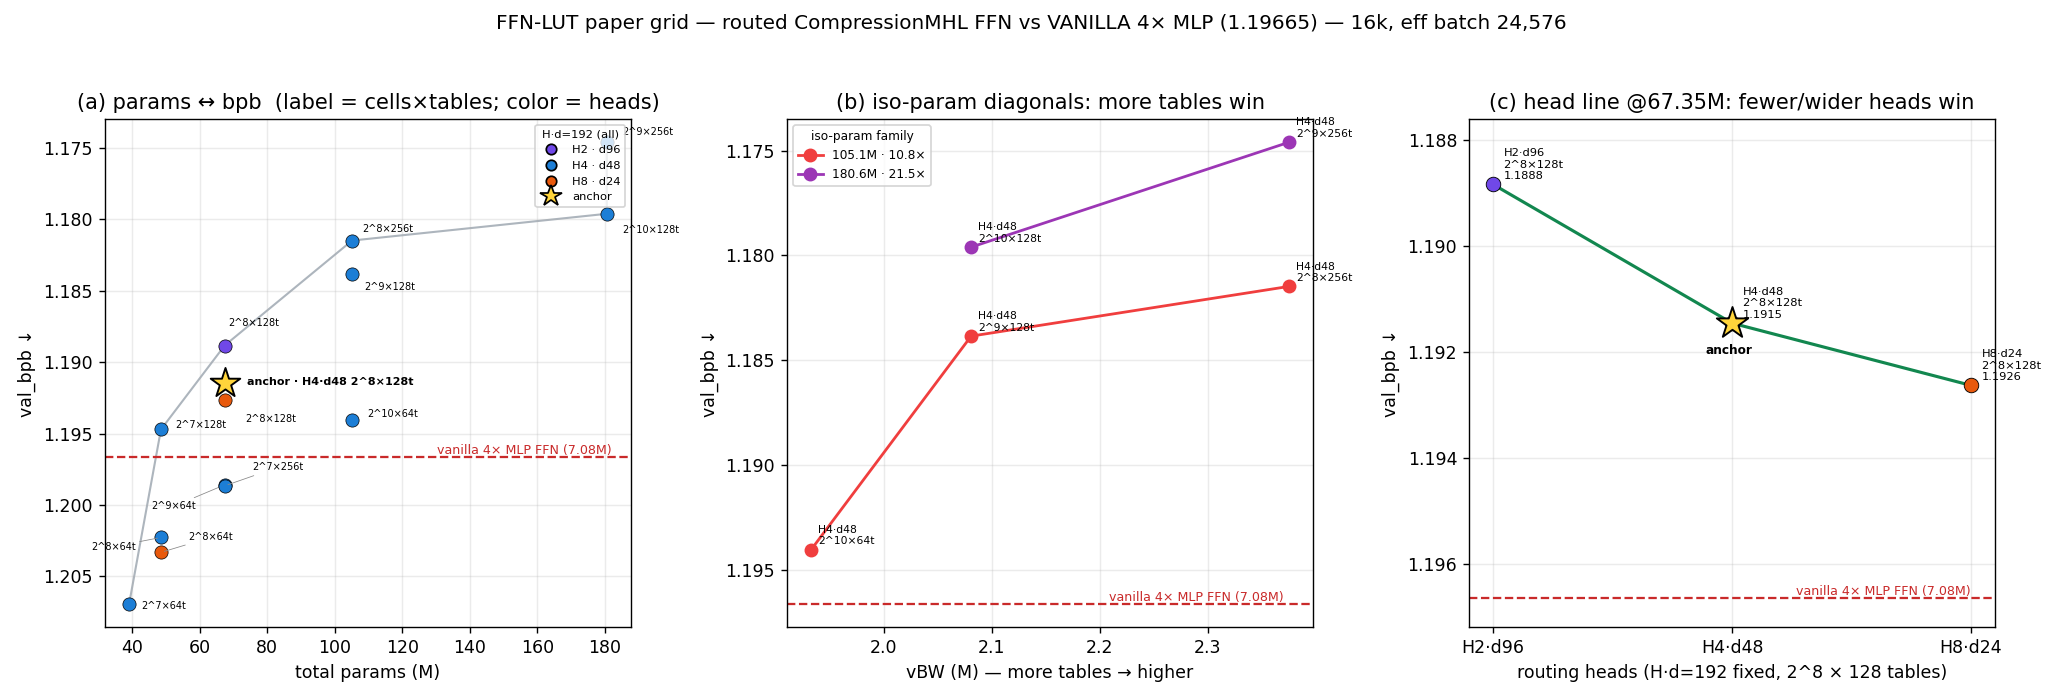
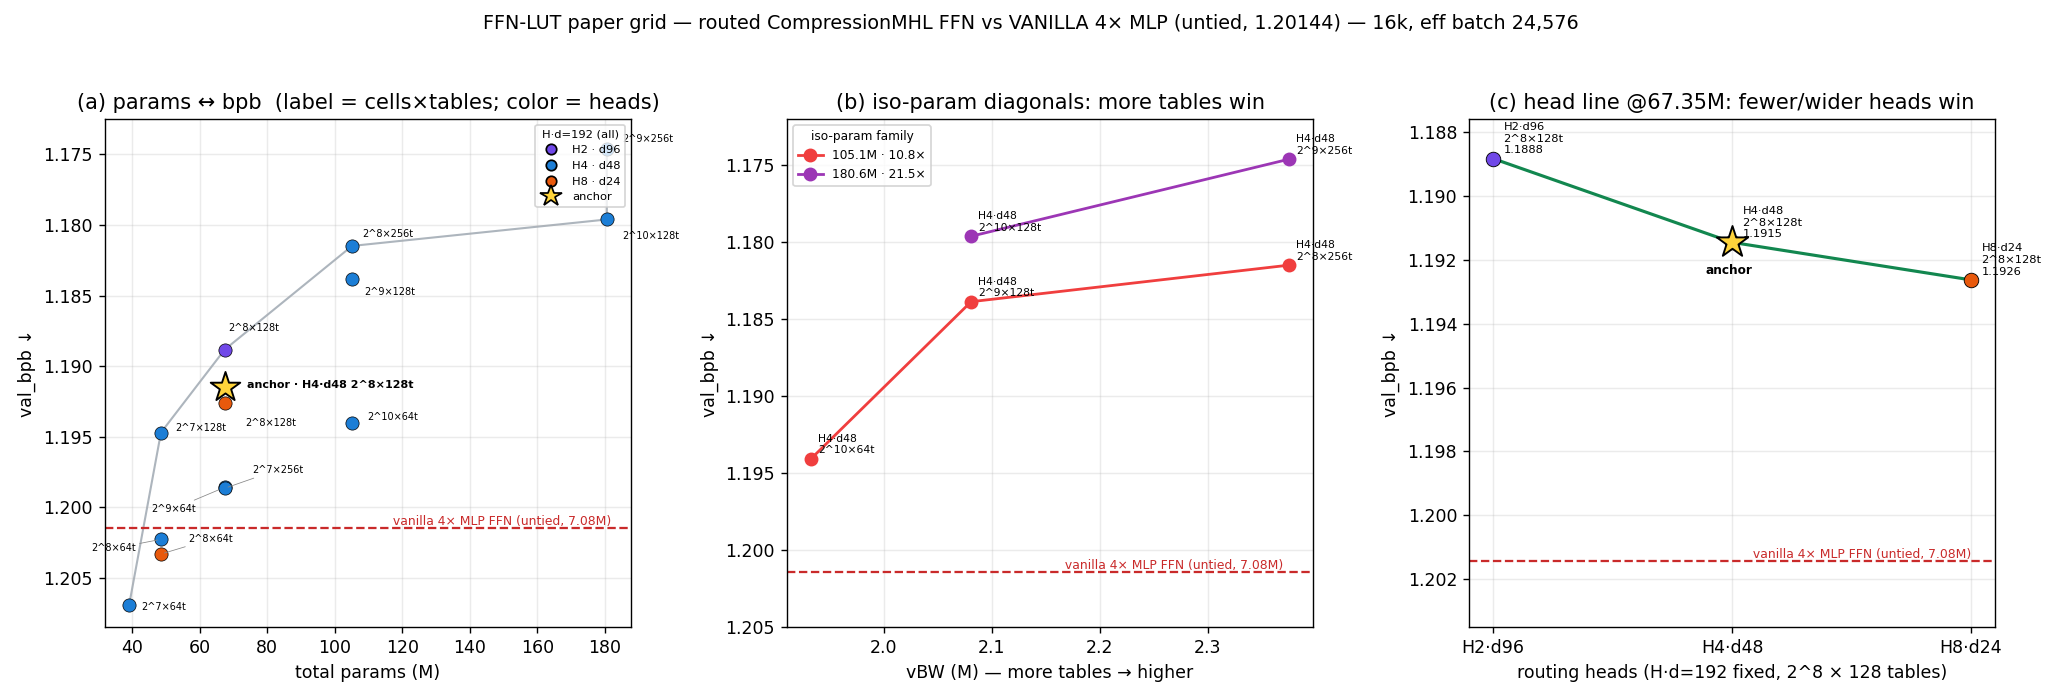
FFN-LUT grid: switch zero-line to UNTIED vanilla (exp_n_0135, 1.20144)
Task a6f574aa. Quality zero-line changed from tied vanilla (exp073, 1.19665) to the untied vanilla
baseline exp_n_0135 (1.20144, read from summary.json), the apples-to-apples anchor for the untied grid.
Table: recomputed 'delta vs vanilla' against 1.20144; untied vanilla is the delta=0 zero-line row (7.08M
FFN, 35.79M total); tied vanilla kept as a labeled reference row (-0.00479 -- tied beats untied for the
vanilla FFN). All 3 plots: horizontal zero-line now at 1.20144, labeled 'vanilla 4x MLP FFN (untied,
7.08M)'; y-ranges extended to show it. Everything else identical: 2^nap x tph labels, head-count colors
(H2.d96/H4.d48/H8.d24), gold-star anchor, leader-line overlap fixes, no dense-V or exp-number wording.
Headline: cheapest beating vanilla 0127 (-0.00673), best 10.8x 0129 (-0.01996), best overall 0118
(-0.02684).

diff --git a/experiments/hyperplane_ffn/FFN_GRID_SUMMARY.md b/experiments/hyperplane_ffn/FFN_GRID_SUMMARY.md
@@ -1,62 +1,62 @@
-# FFN-LUT paper grid — consolidated results (vanilla zero-line)
+# FFN-LUT paper grid — consolidated results (untied-vanilla zero-line)
 
 CompressionMHL FFN slot on MinimalGPT (depth6, n_embd384, 6 attn heads, seq512, vocab32768, untied
 unembedder, standard dense attention). All runs: full 16k, LR schedule identical (lr 3e-4, warmup 1600,
-cosine→3e-5), effective batch 24,576, standard LUT optimizer. 8 new runs (0126–0133) + reuse points.
-Predicted == measured params/FLOP/vBW throughout.
+cosine→3e-5), effective batch 24,576, standard LUT optimizer. Predicted == measured params/FLOP/vBW.
 
-**Zero-line = VANILLA 4× MLP FFN = `exp073_tied_vanilla_baseline_16k` = 1.19665** (7.08M FFN params /
-14.16M FFN-FLOP / 14.16M vBW; same 16k schedule / effective batch). Per the researcher, tied-vs-untied
-vanilla bpb is within noise, so exp073's tied number is used directly as the untied-grid anchor — no
-correction. Every other point is a routed CompressionMHL FFN; exp_n_0084 (nap7/tph256) is one such reuse
-point, not a separate baseline, and it lands **+0.002 above vanilla** (slightly worse), which is worth
-noting because nap7/tph256 is a poor allocation of its 67.35M budget.
+**Zero-line = UNTIED VANILLA 4× MLP FFN = `exp_n_0135_untied_vanilla_baseline_16k` = 1.20144** (7.08M FFN
+params / 14.16M FFN-FLOP / 14.16M vBW; 35.79M total; same 16k schedule / effective batch). This is the
+apples-to-apples untied anchor for the untied grid. The **tied** vanilla (`exp073`, 1.19665) is kept as a
+labeled *reference* row only — note it is **−0.00479 better than untied**: for the vanilla dense FFN,
+untying the unembedder *hurts* (opposite of the LUT models, where untying helped), so the tied number was
+the harder bar and the untied number is the methodologically-consistent one.
 
-| id | kind | H | d | nap(cells) | tph | total params | FFN params | ×Van | FFN-FLOP | vBW | val_bpb | Δ vs vanilla |
+| id | kind | H | d | nap(cells) | tph | total params | FFN params | ×Van | FFN-FLOP | vBW | val_bpb | Δ vs untied vanilla |
 |---|---|---|---|---|---|---|---|---|---|---|---|---|
-| 0118 | reuse | 4 | 48 | 9(512) | 256 | 180.60M | 151.9M | 21.45× | 2.286M | 2.375M | 1.17460 | **−0.02205** |
-| 0133 | NEW | 4 | 48 | 10(1024) | 128 | 180.60M | 151.9M | 21.45× | 2.040M | 2.081M | 1.17961 | −0.01704 |
-| 0129 | NEW | 4 | 48 | 8(256) | 256 | 105.10M | 76.4M | 10.79× | 2.261M | 2.375M | 1.18148 | −0.01517 |
-| 0119 | reuse | 4 | 48 | 9(512) | 128 | 105.10M | 76.4M | 10.79× | 2.028M | 2.081M | 1.18386 | −0.01279 |
-| 0131 | NEW | 2 | 96 | 8(256) | 128 | 67.35M | 38.6M | 5.46× | 1.966M | 2.081M | 1.18883 | −0.00782 |
-| 0121 | reuse | 4 | 48 | 8(256) | 128 | 67.35M | 38.6M | 5.46× | 2.015M | 2.081M | 1.19146 | −0.00519 |
-| 0132 | NEW | 8 | 24 | 8(256) | 128 | 67.35M | 38.6M | 5.46× | 2.114M | 2.081M | 1.19263 | −0.00402 |
-| 0130 | NEW | 4 | 48 | 10(1024) | 64 | 105.10M | 76.4M | 10.79× | 1.905M | 1.933M | 1.19405 | −0.00260 |
-| 0127 | NEW | 4 | 48 | 7(128) | 128 | 48.48M | 19.8M | 2.79× | 2.003M | 2.081M | 1.19471 | **−0.00194** |
-| **exp073** | vanilla | — | — | dense 4×MLP | — | 23.21M (tied) | 7.08M | 1.00× | 14.16M | 14.16M | **1.19665** | **0 (zero-line)** |
-| 0120 | reuse | 4 | 48 | 9(512) | 64 | 67.35M | 38.6M | 5.46× | 1.898M | 1.933M | 1.19859 | +0.00194 |
-| 0084 | reuse | 4 | 48 | 7(128) | 256 | 67.35M | 38.6M | 5.46× | 2.236M | 2.375M | 1.19866 | +0.00201 |
-| 0128 | NEW | 4 | 48 | 8(256) | 64 | 48.48M | 19.8M | 2.79× | 1.892M | 1.933M | 1.20228 | +0.00563 |
-| 0125 | reuse | 8 | 24 | 8(256) | 64 | 48.48M | 19.8M | 2.79× | 1.942M | 1.933M | 1.20332 | +0.00667 |
-| 0126 | NEW | 4 | 48 | 7(128) | 64 | 39.04M | 10.3M | 1.46× | 1.886M | 1.933M | 1.20694 | +0.01029 |
+| 0118 | reuse | 4 | 48 | 9(512) | 256 | 180.60M | 151.9M | 21.45× | 2.286M | 2.375M | 1.17460 | **−0.02684** |
+| 0133 | NEW | 4 | 48 | 10(1024) | 128 | 180.60M | 151.9M | 21.45× | 2.040M | 2.081M | 1.17961 | −0.02183 |
+| 0129 | NEW | 4 | 48 | 8(256) | 256 | 105.10M | 76.4M | 10.79× | 2.261M | 2.375M | 1.18148 | −0.01996 |
+| 0119 | reuse | 4 | 48 | 9(512) | 128 | 105.10M | 76.4M | 10.79× | 2.028M | 2.081M | 1.18386 | −0.01758 |
+| 0131 | NEW | 2 | 96 | 8(256) | 128 | 67.35M | 38.6M | 5.46× | 1.966M | 2.081M | 1.18883 | −0.01261 |
+| 0121 | reuse | 4 | 48 | 8(256) | 128 | 67.35M | 38.6M | 5.46× | 2.015M | 2.081M | 1.19146 | −0.00999 |
+| 0132 | NEW | 8 | 24 | 8(256) | 128 | 67.35M | 38.6M | 5.46× | 2.114M | 2.081M | 1.19263 | −0.00881 |
+| 0130 | NEW | 4 | 48 | 10(1024) | 64 | 105.10M | 76.4M | 10.79× | 1.905M | 1.933M | 1.19405 | −0.00739 |
+| 0127 | NEW | 4 | 48 | 7(128) | 128 | 48.48M | 19.8M | 2.79× | 2.003M | 2.081M | 1.19471 | **−0.00673** |
+| **exp073** | reference (tied) | — | — | dense 4×MLP | — | 23.21M | 7.08M | 1.00× | 14.16M | 14.16M | **1.19665** | −0.00479 |
+| 0120 | reuse | 4 | 48 | 9(512) | 64 | 67.35M | 38.6M | 5.46× | 1.898M | 1.933M | 1.19859 | −0.00285 |
+| 0084 | reuse | 4 | 48 | 7(128) | 256 | 67.35M | 38.6M | 5.46× | 2.236M | 2.375M | 1.19866 | −0.00278 |
+| **exp_n_0135** | vanilla (untied) | — | — | dense 4×MLP | — | 35.79M | 7.08M | 1.00× | 14.16M | 14.16M | **1.20144** | **0 (zero-line)** |
+| 0128 | NEW | 4 | 48 | 8(256) | 64 | 48.48M | 19.8M | 2.79× | 1.892M | 1.933M | 1.20228 | +0.00083 |
+| 0125 | reuse | 8 | 24 | 8(256) | 64 | 48.48M | 19.8M | 2.79× | 1.942M | 1.933M | 1.20332 | +0.00188 |
+| 0126 | NEW | 4 | 48 | 7(128) | 64 | 39.04M | 10.3M | 1.46× | 1.886M | 1.933M | 1.20694 | +0.00550 |
 
-## Headline vs vanilla
-- **Cheapest routed FFN beating vanilla:** 0127 (48.48M, 2.79× FFN, **−0.00194**) — beats the vanilla 4× MLP
-  while the LUT reads only selected rows.
-- **Best in the 10.8× budget:** 0129 nap8/tph256 (**−0.01517**).
-- **Best overall:** 0118 nap9/tph256 (21.5×, **−0.02205**).
-- **0084 (nap7/tph256) sits +0.00201 ABOVE vanilla** — its nap7/tph256 arrangement is one of the worst
-  67.35M allocations; better routed configs at equal params (0131 −0.0078, 0121 −0.0052) clear both it and
-  vanilla.
-- Everything from 2.79× up beats vanilla except the two cell-heavy tph64 configs (0128, 0125) and the
-  smallest 1.46× point (0126).
+## Headline vs untied vanilla
+- **Cheapest routed FFN beating untied vanilla:** 0127 (48.48M, 2.79× FFN, **−0.00673**).
+- **Best in the 10.8× budget:** 0129 nap8/tph256 (**−0.01996**).
+- **Best overall:** 0118 nap9/tph256 (21.5×, **−0.02684**).
+- Against the untied zero-line, *every routed config beats it* except the two cell-heavy tph64 points
+  (0128, 0125) and the smallest 1.46× point (0126). 0084 (nap7/tph256) now clears vanilla too (−0.00278),
+  since untying moved the bar down.
+- **Tied vanilla is a reference at −0.00479** (tied beats untied for the vanilla FFN). Using the untied
+  number as the zero-line is the methodologically-consistent choice for the untied grid; it flatters the
+  routed results relative to the tied bar by ~0.0048, so both numbers are reported.
 
-## Findings (deltas reframed vs vanilla)
-1. **Don't starve tph.** The low-tph / high-cell corner is the worst at every iso-param level; keep
-   tph ≥ 128. Ceiling diagonal (10.8×) is monotone: nap8/tph256 −0.01517 < nap9/tph128 −0.01279 <
-   nap10/tph64 −0.00260. The 5.45× level is an interior optimum — nap8/tph128 (0121, −0.0052) beats both
-   extremes nap7/tph256 (0084, +0.0020) and nap9/tph64 (0120, +0.0019).
-2. **Fewer, wider routing heads win** (head line @67.35M, H·d=192 fixed): H2/d96 −0.00782 < H4/d48 −0.00519
-   < H8/d24 −0.00402.
+## Findings (deltas vs untied vanilla)
+1. **Don't starve tph.** The low-tph / high-cell corner is worst at every iso-param level; keep tph ≥ 128.
+   Ceiling diagonal (10.8×) monotone: nap8/tph256 −0.01996 < nap9/tph128 −0.01758 < nap10/tph64 −0.00739.
+   5.45× is an interior optimum — nap8/tph128 (0121, −0.00999) beats both extremes nap7/tph256 (0084,
+   −0.00278) and nap9/tph64 (0120, −0.00285).
+2. **Fewer, wider routing heads win** (head line @67.35M, H·d=192 fixed): H2/d96 −0.01261 < H4/d48 −0.00999
+   < H8/d24 −0.00881.
 3. **Fixed-param compute trade:** at iso-param/iso-C, more-tables wins bpb while fewer-tables is cheaper
    FLOP/vBW (0133 2.040M/2.081M vs 0118 2.286M/2.375M at 180.6M).
 
 ## Best configs for the paper
-- **Max quality:** 0118 nap9/tph256 (180.6M, 1.17460, −0.0221 vs vanilla).
-- **Best at ~vanilla-adjacent budget (67.35M):** 0131 H2/d96 (1.18883, −0.0078).
-- **Cheapest beating vanilla:** 0127 nap7/tph128 (48.48M, 2.79×, 1.19471, −0.0019).
+- **Max quality:** 0118 nap9/tph256 (180.6M, 1.17460, −0.0268 vs untied vanilla).
+- **Best at ~vanilla-adjacent budget (67.35M):** 0131 H2/d96 (1.18883, −0.0126).
+- **Cheapest beating vanilla:** 0127 nap7/tph128 (48.48M, 2.79×, 1.19471, −0.0067).
 
-See `FFN_GRID_plots.png` — points are labeled by architecture (cells×tables; every point has H·d=192,
-with head count shown by color: H2·d96 / H4·d48 / H8·d24), the anchor (H4·d48, 256 cells × 128 tables)
-is a gold star, and the vanilla 1.19665 line is the zero reference. (a) params↔bpb Pareto, (b) iso-param
-diagonals (bpb vs vBW; more tables win), (c) the H2/H4/H8 head line.
+See `FFN_GRID_plots.png` — points labeled by architecture (cells×tables = 2^nap × tph; head count by
+color H2·d96 / H4·d48 / H8·d24; H·d=192 for every point), the anchor (H4·d48, 2^8×128t) is a gold star,
+and the untied vanilla 1.20144 line is the zero reference. (a) params↔bpb, (b) iso-param diagonals
+(bpb vs vBW), (c) the H2/H4/H8 head line.
